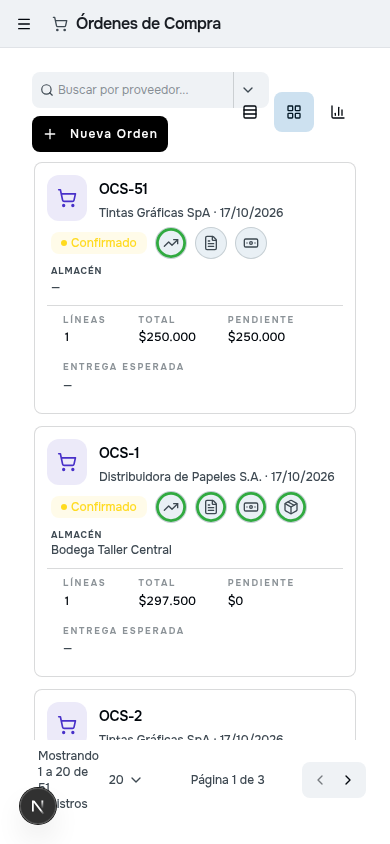
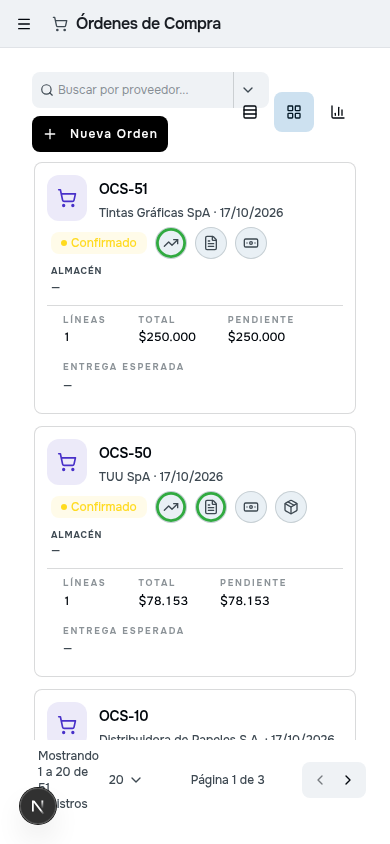
fix(purchasing): lote 2c entity-view — correcciones del code-review + cierre (ADR-0087)
El código del lote 2c (Compras) quedó dentro de 25e43a64f (TC-054); este commit
cierra el lote:

- PurchaseOrderViewSet: orden por defecto -date,-id (el modelo no tiene
  Meta.ordering y la paginación era inestable).
- Analítica: iterator(chunk_size=500), productos agrupados por id,
  pending_amount del modelo en lugar del serializer; test con líneas para
  ejercitar los prefetches.
- Collection.Toolbar no reserva la celda de búsqueda si viene vacía.
- Story de Compras importa Invoice desde el barrel de billing.
- Baseline no-unsafe: fuera la entrada de PurchasingOrdersClientView (borrado).
- TC-053: quita "use client" de las páginas de UoM y categorías de medida,
  que exportaban metadata y no compilaban.
- Documentos: matriz §3.10, ledger TC-048/050–054, PROGRESS, api-contracts,
  evidencias del lote 2c.

diff --git a/frontend/components/entity-view/surfaces/Collection.tsx b/frontend/components/entity-view/surfaces/Collection.tsx
@@ -171,7 +171,7 @@ function Toolbar({ children, action, views = ["table", "card"], exportFilters = 
     return (
         <div className="flex flex-wrap items-center gap-2" role="toolbar" aria-label={`Herramientas de ${ctx.label}`}>
             <div className="flex min-w-0 flex-1 flex-wrap items-center gap-2">
-                <div className="min-w-56 flex-1">{children}</div>
+                {children && <div className="min-w-56 flex-1">{children}</div>}
                 {action}
             </div>
             {exportSpec && <ExportButtons spec={exportSpec} filters={exportFilters} />}

diff --git a/frontend/features/purchasing/entity-view/Purchasing.stories.tsx b/frontend/features/purchasing/entity-view/Purchasing.stories.tsx
@@ -3,7 +3,7 @@ import type { Meta, StoryObj } from "@storybook/nextjs-vite"
 import { Collection, CollectionModes, useEntityCollection } from "@/components/entity-view"
 import { withEntityView } from "@/components/entity-view/stories/withEntityView"
 import { purchaseNoteEntity, purchaseNoteViews } from "./purchaseNote.entity"
-import type { Invoice } from "@/features/billing/types"
+import type { Invoice } from "@/features/billing"
 import type { PurchaseOrderAPI } from "../types"
 import { purchaseOrderEntity, purchaseOrderViews } from "./purchaseOrder.entity"
 

diff --git a/frontend/app/(dashboard)/inventory/settings/measure-categories/page.tsx b/frontend/app/(dashboard)/inventory/settings/measure-categories/page.tsx
@@ -1,5 +1,3 @@
-"use client"
-
 import { UoMCategoryClientView } from "@/features/inventory"
 import { ToolbarCreateButton } from "@/components/shared"
 import { getInventoryConfigSubTab } from "@/features/inventory/navigation"

diff --git a/frontend/app/(dashboard)/inventory/products/uoms/units/page.tsx b/frontend/app/(dashboard)/inventory/products/uoms/units/page.tsx
@@ -1,5 +1,3 @@
-"use client"
-
 import { UoMClientView } from "@/features/inventory"
 import { ToolbarCreateButton } from "@/components/shared"
 import { getInventoryProductsSubTab } from "@/features/inventory/navigation"

diff --git a/backend/purchasing/analytics.py b/backend/purchasing/analytics.py
@@ -3,7 +3,7 @@ Purchase order analytics over the full filtered list (ADR-0087 lote 2c).
 
 The frontend used to aggregate the orders of the visible page only. This service receives the
 same filtered queryset as the list endpoint and walks it once. Per-order amounts and states come
-from `PurchaseOrderSerializer`'s own methods (pending amount, actual receipt date) so
+from the model (`pending_amount`) and `PurchaseOrderSerializer` (actual receipt date) so
 the figures match the list and the document sheet. Sums are exact (Decimal) and converted at the
 end; period buckets are the first day of the period (ISO), labelled by the client. Only the
 figures the analytics panel shows are computed.
@@ -48,7 +48,8 @@ def _payment_key(order) -> str:
 
 
 def _top_products(products: dict) -> list[dict]:
-    return sorted(({"product": k, **v} for k, v in products.items()), key=lambda p: p["total"], reverse=True)[:TOP_PRODUCTS]
+    """By product id (two products may share a name), largest total first."""
+    return sorted(products.values(), key=lambda p: p["total"], reverse=True)[:TOP_PRODUCTS]
 
 
 class PurchaseOrderAnalyticsService:
@@ -69,15 +70,16 @@ class PurchaseOrderAnalyticsService:
         dte: Counter[str] = Counter()
         suppliers: dict[int | None, dict] = {}
         periods: dict[date, dict] = {}
-        products: dict[str, dict] = defaultdict(lambda: {"total": ZERO})
+        products: dict[int, dict] = {}
         product_types: defaultdict[str, Decimal] = defaultdict(Decimal)
         by_type = {
-            name: {"products": defaultdict(lambda: {"total": ZERO, "count": ZERO}), "periods": defaultdict(Decimal),
+            name: {"products": {}, "periods": defaultdict(Decimal),
                    "categories": defaultdict(Decimal), "total": ZERO, "orders": 0}
             for name in PRODUCT_GROUPS
         }
 
-        for order in queryset:
+        # Chunks keep the prefetches (Django ≥ 4.1) without loading the whole list and its relations at once.
+        for order in queryset.iterator(chunk_size=500):
             total = stats.num(order.total)
             money["volume"] += total
             counts["orders"] += 1
@@ -90,7 +92,7 @@ class PurchaseOrderAnalyticsService:
                     funnel["RECEIVED"] += 1
                 if order.invoicing_status == "INVOICED":
                     funnel["INVOICED"] += 1
-                if stats.num(serializer.get_pending_amount(order)) <= 0:
+                if stats.num(order.pending_amount) <= 0:
                     funnel["PAID"] += 1
 
             receipt = order.receipt_date
@@ -136,14 +138,14 @@ class PurchaseOrderAnalyticsService:
                 product_types[product.get_product_type_display() if product else "General"] += line_total
                 if not product:
                     continue
-                products[product.name]["total"] += line_total
+                products.setdefault(product.id, {"product": product.name, "total": ZERO})["total"] += line_total
                 for name, members in PRODUCT_GROUPS.items():
                     if product.product_type not in members:
                         continue
                     group = by_type[name]
                     types_in_order.add(name)
                     group["total"] += line_total
-                    item = group["products"][product.name]
+                    item = group["products"].setdefault(product.id, {"product": product.name, "total": ZERO, "count": ZERO})
                     item["total"] += line_total
                     item["count"] += stats.num(line.quantity)
                     if bucket:

diff --git a/backend/purchasing/tests/test_order_analytics.py b/backend/purchasing/tests/test_order_analytics.py
@@ -6,7 +6,8 @@ import pytest
 from rest_framework.test import APIClient
 
 from contacts.models import Contact
-from purchasing.models import PurchaseOrder
+from inventory.models import Product, ProductCategory, UoM, UoMCategory
+from purchasing.models import PurchaseLine, PurchaseOrder
 
 TODAY = date.today()
 THIS_MONTH = date(TODAY.year, TODAY.month, 1)
@@ -19,9 +20,18 @@ def client_and_orders(db):
     user = get_user_model().objects.create_superuser(username="poanalytics", password="password")
     acme = Contact.objects.create(name="Papelera", tax_id="11111111-1")
     beta = Contact.objects.create(name="Tintas", tax_id="22222222-2")
-    # 25 orders: more than one page (20).
+    uom_cat, _ = UoMCategory.objects.get_or_create(name="Unidades")
+    uom, _ = UoM.objects.get_or_create(name="unidad", defaults={"ratio": 1, "category": uom_cat})
+    category, _ = ProductCategory.objects.get_or_create(name="Papeles", defaults={"prefix": "PAP"})
+    # Same name, different products: the analytics must not merge them.
+    papers = [
+        Product.objects.create(name="Papel Bond", internal_code=f"PB-{n}", product_type=Product.Type.STORABLE,
+                               uom=uom, category=category, cost_price=Decimal("0"))
+        for n in (1, 2)
+    ]
+    # 25 orders: more than one page (20), each with one line (exercises the line prefetches).
     for i in range(25):
-        PurchaseOrder.objects.create(
+        order = PurchaseOrder.objects.create(
             supplier=acme if i % 5 else beta,
             number=f"OC-{i:03d}",
             status="CONFIRMED",
@@ -30,6 +40,7 @@ def client_and_orders(db):
             receiving_status="PENDING",
             total=Decimal(200_000 if i < 20 else 2_000_000),
         )
+        PurchaseLine.objects.create(order=order, product=papers[i % 2], quantity=Decimal("1"), unit_cost=Decimal("1000"), uom=uom)
     client = APIClient()
     client.force_authenticate(user=user)
     return client
@@ -48,6 +59,9 @@ def test_analytics_covers_the_whole_filtered_list(client_and_orders):
     assert data["invoiced"]["pending_volume"] == totals["total_volume"]
     assert set(data["by_type"]) == {"storable", "service", "subscription"}
     assert {s["id"]: s["value"] for s in data["funnel"]}["CONFIRMED"] == 25
+    storable = data["by_type"]["storable"]
+    assert storable["order_count"] == 25 and storable["categories"] == [{"id": "Papeles", "value": storable["total_volume"]}]
+    assert [p["product"] for p in data["top_products"]] == ["Papel Bond", "Papel Bond"]
 
 
 @pytest.mark.django_db

diff --git a/backend/purchasing/views.py b/backend/purchasing/views.py
@@ -109,8 +109,10 @@ class PurchaseOrderViewSet(NoDestroyModelMixin, viewsets.ModelViewSet, AuditHist
     filter_backends = [DjangoFilterBackend, DistinctSearchFilter, filters.OrderingFilter]
     filterset_class = PurchaseOrderFilterSet
     search_fields = ["supplier__name", "supplier__tax_id", "number", "lines__product__name"]
-    # Server ordering (ADR-0087 lote 2c): `?ordering=<key>,id`; without it the model order is kept.
+    # Server ordering (ADR-0087 lote 2c): `?ordering=<key>,id`; without it, newest first (the model
+    # has no Meta.ordering and an unordered queryset pages unstably).
     ordering_fields = ["id", "number", "date", "supplier__name", "receipt_date", "total"]
+    ordering = ["-date", "-id"]
 
     @action(detail=False, methods=["get"], url_path="analytics")
     def analytics(self, request):

diff --git a/docs/50-audit/Tablascards/07-migration-matrix.md b/docs/50-audit/Tablascards/07-migration-matrix.md
@@ -14,9 +14,9 @@
 | Lote | Contenido | Estado |
 |---|---|---|
 | 1 | Prerrequisitos R1–R5 + R7 + R8 + `EntityViewProvider` en el shell + paridad de URL | **completado (2026-10-17)** |
-| 2a | Capacidades + UoM + Productos (+ orden en servidor de productos, TC-041) | **Puerta D aprobada (2026-10-17)**, en curso |
-| 2b | OV (+ orden en servidor, foco del hub, endpoint de analítica de OV) | implementado y verificado (2026-10-17), §3.8 |
-| 2c | Compras (+ TC-043, TC-032) | **Puerta D aprobada (2026-10-17)**, en curso |
+| 2a | Capacidades + UoM + Productos (+ orden en servidor de productos, TC-041) | **completado (2026-10-17)**, §3.6 |
+| 2b | OV (+ orden en servidor, foco del hub, endpoint de analítica de OV) | **completado (2026-10-17)**, §3.8 |
+| 2c | Compras (+ TC-043, TC-032) | **completado (2026-10-18)**, §3.10 |
 | 3 | Líneas de documento + edición por lote P1 | — |
 | R6 | ADR de color (contraste warning/success) | aparte |
 
@@ -355,6 +355,69 @@ Inventario de `app/(dashboard)/purchasing/orders/components/PurchasingOrdersClie
 1. **Quitar el código muerto:** modales y acciones inalcanzables desde la lista y el modo "notas". Se conserva el asistente de alta (`?modal=new`).
 2. **Analítica de Compras sobre la lista filtrada completa** con endpoint propio, siguiendo el patrón de OV.
 3. **Facetas de recepción, facturación y tesorería al servidor** (`receiving_status`, `billing_status`, `treasury_status`). Fuera las columnas ocultas.
+
+### 3.10 Resultado del lote 2c — Compras (2026-10-18)
+
+**Backend**
+- `GET /api/purchasing/orders/analytics/` (`purchasing/analytics.py`). Reutiliza `filter_queryset`, así que aplica los mismos filtros y la misma búsqueda que la lista. Calcula **solo** las cifras que muestra el panel: volumen, embudo por ejes (ADR-0084), formas de pago, proveedores, periodos, almacenes, productos, tipos, DTE, facturación y desglose por tipo de producto. La versión del cliente calculaba además tendencias, rangos de monto y próximas recepciones, que ninguna pestaña mostraba.
+- Las etiquetas de forma de pago vienen de `TreasuryMovement.Method`; se quita el mapa duplicado del cliente, que difería de tesorería en "Terminal de cobro".
+- Helpers comunes con OV en `core/analytics.py` (`bucket`, `previous_bucket`, `num`, `to_json`, `ranked`).
+- `PurchaseOrderViewSet`: `OrderingFilter` (number, date, supplier__name, receipt_date, total; desempate `,id`) y `DistinctSearchFilter`.
+- Prefetch `payments__invoice`: `total_paid` lee el DTE de cada pago y, sin él, consultaba una vez por pago.
+- `purchasing/tests/test_order_analytics.py`: lista completa (25 > página), filtros, orden en servidor y consultas constantes.
+
+**Frontend**
+- `PurchasingOrdersClientView.tsx` (1042 líneas) se elimina.
+  - Lo reemplaza `features/purchasing/components/PurchaseOrdersView.tsx` (~180), que usa `Collection.*`: paginación y orden en servidor, `useServerPage`, agrupación con `GROUP_ROW_LIMIT`, foco del hub en cards y `Collection.Analytics` con estados de carga y error.
+  - La configuración del panel pasa a una función pura (`purchaseOrderAnalyticsScreen.ts`).
+- **Decisión 1 (código muerto) — corrección:** el modo "notas" **no** era inalcanzable. Lo usa `/purchasing/notes` (pestaña "Notas Crédito/Débito" de `PurchasingHeader`). Se migra como colección propia con `purchaseNoteEntity`, movida del spike de billing a purchasing, y con el `purchaseInvoiceUnifiedSearchDef` de billing (mismo endpoint). Antes la lista de notas ignoraba los filtros y la paginación (TC-051).
+- **Decisión 2:** `usePurchaseOrderAnalytics` (consulta habilitada solo en la vista de analítica) sustituye a `usePurchasingAnalyticsData`.
+- **Decisión 3:** las facetas viajan como parámetros del buscador (ya existían en `purchaseOrderUnifiedSearchDef`). La entidad pierde `facets` y las 3 columnas ocultas desaparecen.
+- **TC-043:** se quita la precarga SSR de 200 filas y de notas (`page.tsx` queda trivial, como OV). No hay `initialData` que contamine otras claves.
+- El asistente de alta (`?modal=new`) pasa a `PurchasingPageClient`. Al terminar invalida `PURCHASING_KEYS.orders()` (lista y analítica).
+- Se quitan `deleteOrder` y `annulOrder` de la API y sus mutaciones (sin consumidores; las acciones viven en la ficha).
+- **TC-048:** `PurchaseInvoicesClientView` usa `partner_id`, y se quita `partner` del tipo `Invoice`.
+- **`Collection.Toolbar action`** (enmienda del contrato, ADR-0087 lote 2c): a 390 px el botón de crear tapaba la búsqueda en Compras, Productos y UoM (TC-050).
+- `periodPresets(from, to)` en `lib/date-presets.ts` sustituye tres copias expandidas de los presets de fecha en `purchasing/unifiedSearchDef.ts`.
+
+**Verificación**
+- `tsc` sin errores.
+- `eslint` sin errores en los archivos del lote. Los 21 errores globales están en tesorería, contabilidad, dashboard y auditoría: son cambios del usuario sin commitear, fuera del lote.
+- vitest 51/51 (entity-view, purchasing, billing, inventory); stories de Compras 2/2.
+- pytest: purchasing + billing 68, y analítica de OV y Compras 28.
+- App real (antes de `/simplify`), en `evidence/lote2c/`:
+  - lista: 7 columnas, 20/51, sin scroll horizontal;
+  - orden: `ordering=-total,-id`;
+  - hub: `?selected=2`, 19 cards atenuadas;
+  - analítica sobre las 51 OC (volumen $7.333.850; embudo CONFIRMED 51 · RECEIVED 39 · INVOICED 49 · PAID 38);
+  - `?modal=new` abre el asistente;
+  - notas: estado vacío correcto, porque el servidor tiene 0 notas de compra;
+  - 390 px sin desborde.
+- **Tras `/simplify` y `/code-review`** (servidor reiniciado tras TC-052):
+  - formas de pago con etiqueta del modelo (Transferencia 37 · Crédito 13 · Tarjeta (Manual) 1);
+  - top de productos por id;
+  - la lista sin `ordering` usa el orden del servidor `-date,-id`;
+  - notas con el buscador de billing (`/billing/invoices/?page=1&page_size=20&…`, estado vacío);
+  - a 390 px, la acción baja bajo la búsqueda en Compras y Productos, sin desborde;
+  - UoM a 390 px sin desborde, pero la página no compila por TC-053 (ajeno al lote).
+
+**`/code-review` medium (10 hallazgos)**
+
+Corregidos (7):
+1. `PurchaseOrder` sin orden por defecto: paginación inestable. Ahora `ordering = ["-date", "-id"]` en el ViewSet.
+2. El test de consultas no ejercía los prefetches: ahora tiene líneas con productos.
+3. La analítica dependía del serializer: ahora usa `order.pending_amount` del modelo.
+4. Toda la lista cargaba en memoria de una vez: ahora `iterator(chunk_size=500)`.
+5. Los productos se agrupaban por nombre: ahora por id.
+6. `Toolbar` reservaba la celda de búsqueda aunque viniera vacía.
+7. Import interno de billing en la story.
+
+Sin cambio (paridad con la lista y con la versión del cliente; se registran):
+- las OC canceladas cuentan en el volumen;
+- una factura primaria anulada cuenta como "facturada", la misma regla que `get_is_invoiced` de la ficha;
+- "Pagada" = saldo ≤ 0, la misma regla que `payment_status` del modelo.
+
+Si se cambian, debe ser en el modelo y el serializer, no solo en la analítica.
 
 ## 4. Matriz por entidad
 

diff --git a/docs/50-audit/Tablascards/ledger.md b/docs/50-audit/Tablascards/ledger.md
@@ -259,10 +259,35 @@
 
 ### TC-048 · Tipo erróneo · Verificado
 - Evidencia: `features/billing/types/index.ts` declaraba `partner?: number`, pero `billing/serializers.py` envía `partner_id` y `partner_name`. En la lista de notas de venta el enlace al cliente se construía sin id. `PurchaseInvoicesClientView.tsx:286` también lee `.partner`
-- Decisión: se añade `partner_id`; la entidad de notas lo usa. Quitar `partner` en el 2c (Compras)
-- Estado: parcial
+- Decisión: se añade `partner_id`; la entidad de notas lo usa. En el 2c, `PurchaseInvoicesClientView` usa `partner_id ?? supplier` y se quita `partner` del tipo
+- Estado: corregido (lotes 2b + 2c)
 
 ### TC-049 · Documentación del servidor de desarrollo · Verificado
 - Evidencia: `docs/30-playbooks/remote-dev-server.md:141` dice "Django auto-reload", pero el backend corre con `daphne -b 0.0.0.0 -p 8100 config.asgi:application`, sin autorrecarga. Una vista nueva devolvía 404 hasta `docker compose restart backend`
 - Decisión: registrar; corregir el playbook o el comando de arranque (tarea aparte)
 - Estado: pendiente
+
+### TC-050 · Defecto de la presentación nueva · Verificado
+- Evidencia: capturas a 390 px de `evidence/lote2c/compras--card.390.png` y `productos--card.390.png` (antes de la corrección). El botón "Nueva Orden" / "Nuevo Producto" tapaba la búsqueda. Las vistas metían búsqueda y botón en una sola celda `flex-1 min-w-0` de `Collection.Toolbar`, que no podía partirse
+- Decisión: ranura `action` en `Collection.Toolbar`. La búsqueda tiene un mínimo de `min-w-56` y la acción baja a la línea siguiente. Se usa en Compras, Productos y UoM (enmienda del contrato, ADR-0087 lote 2c)
+- Estado: corregido (lote 2c; regresión del lote 2a en Productos/UoM)
+
+### TC-051 · Defecto del sistema actual · Verificado
+- Evidencia: el modo "notas" de `PurchasingOrdersClientView` (ruta `/purchasing/notes`) llamaba a `purchasingApi.getNotes()` sin parámetros. Leía solo `response.results` (primera página del backend), ignoraba los filtros del buscador (usaba el de órdenes) y `page.tsx` precargaba las notas con el tipo `Invoice[]` en vez de la página DRF
+- Decisión: `usePurchasingNotes({ filters, page, page_size })` paginado en servidor con `purchaseInvoiceUnifiedSearchDef` (mismo endpoint `/billing/invoices/`). La Puerta D 2c había dado el modo por muerto; se corrige en §3.10
+- Estado: corregido (lote 2c)
+
+### TC-052 · Entorno · Verificado
+- Evidencia: tras reiniciar el backend, el frontend del servidor de desarrollo se reinició solo, quedó sin responder (curl sin respuesta en 300 s, 4,0 GB de 5 GB, CPU 0 %) y, tras `docker compose restart frontend`, el host 192.168.1.93 dejó de responder a ping/ssh ("No route to host"). Memoria del host: 6,9 GB en total, 1,5 GB disponibles antes de la caída
+- Decisión: avisar al usuario; repetir la verificación del 2c cuando el host vuelva. El host volvió reiniciado (`up 0 min`) y la verificación se completó
+- Estado: resuelto (causa probable: memoria del host; el frontend `next dev --turbo` llega a 4 GB)
+
+### TC-053 · Defecto ajeno al lote · Verificado
+- Evidencia: `app/(dashboard)/inventory/products/uoms/units/page.tsx` y `app/(dashboard)/inventory/settings/measure-categories/page.tsx` (commit `25e43a64f`, navegación) tienen `"use client"` y además `export const metadata = …`. Next.js no compila ninguna de las dos ("Ecmascript file had an error", línea 9)
+- Decisión: el usuario pide corregirlo (2026-10-18). Se quita `"use client"`: ninguna de las dos usa hooks, y quedan como Server Components igual que la página de productos
+- Estado: corregido
+
+### TC-054 · Proceso · Verificado
+- Evidencia: el commit `25e43a64f feat(navigation)` (2026-10-18 01:34) incluye todo el lote 2c sin commitear: backend, frontend, evidencias y documentos de contrato. También incluye `docker-compose.yml`. Los archivos nuevos del lote estaban marcados con `git add -N` (intent-to-add), lo que facilita que un `git add -A`/`commit -a` los arrastre
+- Decisión: no reescribir la historia. El usuario elige (2026-10-18) un commit de seguimiento en la rama con las correcciones del `/code-review`, los documentos y TC-053. En adelante, no usar `git add -N`
+- Estado: resuelto

diff --git a/docs/50-audit/Tablascards/PROGRESS.md b/docs/50-audit/Tablascards/PROGRESS.md
@@ -1,7 +1,7 @@
 # Progreso — Nuevo sistema de presentación
-- Fase actual: 7 · Lote 2c (Compras) · Puerta D aprobada · en implementación
+- Fase actual: 7 · Lote 2c (Compras) · implementado, `/simplify` + `/code-review` aplicados, verificado en la app · esperando al usuario (TC-054: el lote ya quedó dentro del commit de navigación)
 - Último completado: lote 2a — capacidades del núcleo (orden en servidor, agrupación, BulkBar, Analytics, estados vacíos) + UoM y Productos migrados + `OrderingFilter` de productos; `/simplify` + `/code-review` (9/10 corregidos); TC-041–TC-045; issues #178. Detalle en `07` §3.6
-- Próximo paso exacto: 2c: backend (OrderingFilter + analítica de OC + test de duplicados en búsqueda) → hooks (initial por consulta, isError, ordering, facetas) → vista sin código muerto → PurchaseInvoicesClientView partner_id → ciclo completo
+- Próximo paso exacto: Puerta D del lote 3 (líneas de documento + edición por lote P1): inventario de pantallas con Explore, capacidades que faltan, partición y decisiones → presentar al usuario. Contexto: `07-migration-matrix.md` §1 y §4, `06-spec.md` (líneas y edición por lote), ledger TC-012/TC-040
 - Rama: `refactor/entity-view-lote-2` (desde el lote 1 `b3ae3fac3`); issues abiertas #176, #177
 - Puertas: A ✅ · B ✅ · C ✅ · D lote 1 ✅ · D 2a ✅ · D 2b ✅ · D 2c ✅ (2026-10-17)
 - Preguntas abiertas para el usuario: —
@@ -29,3 +29,6 @@
   - 2026-10-17 Lote 1 cerrado: pantallas reales comparadas (alturas sin cambios; R2 solo cambia el glifo); TC-041 (listUrl de UoM). Issue #177 (TC-039). Commit del lote 1.
   - 2026-10-17 Lote 2a implementado y verificado en la app real. Defectos encontrados: TC-043 (initialData de TanStack), TC-044 (ciclo de imports), TC-045 (stock inflado por variantes), TC-046 (F821 latente).
   - 2026-10-17 Lote 2b (OV) implementado: endpoint de analítica sobre la lista completa (TC-047), orden en servidor, foco del hub, notas con entidad propia; TC-048 (tipo Invoice), TC-049 (daphne).
+  - 2026-10-18 Lote 2c (Compras) implementado: endpoint de analítica de OC (solo las cifras que se muestran), orden en servidor, vista nueva (1042 → ~180 líneas), notas migradas (el modo sí estaba vivo, TC-051), `Collection.Toolbar action` (TC-050), helpers de analítica comunes en `core/analytics.py`. El servidor de desarrollo cayó durante la verificación posterior a `/simplify` (TC-052).
+  - 2026-10-18 `/code-review` del 2c: 7 corregidos (orden por defecto del ViewSet, iterator, productos por id, test con líneas, modelo en vez de serializer, Toolbar vacío, import de story); 3 sin cambio por paridad. Verificación final en la app hecha. TC-053 y TC-054 para el usuario.
+  - 2026-10-18 Usuario: commit de seguimiento del 2c (TC-054) y corrección de TC-053 (dos páginas con `"use client"` + `metadata`). Lote 2c cerrado.

diff --git a/docs/20-contracts/api-contracts.md b/docs/20-contracts/api-contracts.md
@@ -548,7 +548,8 @@ Base: `/api/purchasing/`
 ### orders/ (PurchaseOrder)
 
 ```
-GET    /api/purchasing/orders/                list, paginated (filtros vía PurchaseOrderFilterSet)
+GET    /api/purchasing/orders/                list, paginated (filtros vía PurchaseOrderFilterSet; `search` sin duplicados; `ordering`=number|date|supplier__name|receipt_date|total con desempate `,id`)
+GET    /api/purchasing/orders/analytics/      cifras del panel sobre TODA la lista filtrada (mismos filtros y búsqueda que la lista; `granularity`=day|month|year); formas de pago con etiqueta del modelo, buckets ISO del primer día del período (ADR-0087 lote 2c)
 POST   /api/purchasing/orders/                create
 GET    /api/purchasing/orders/{id}/           detail
 PATCH  /api/purchasing/orders/{id}/           update
